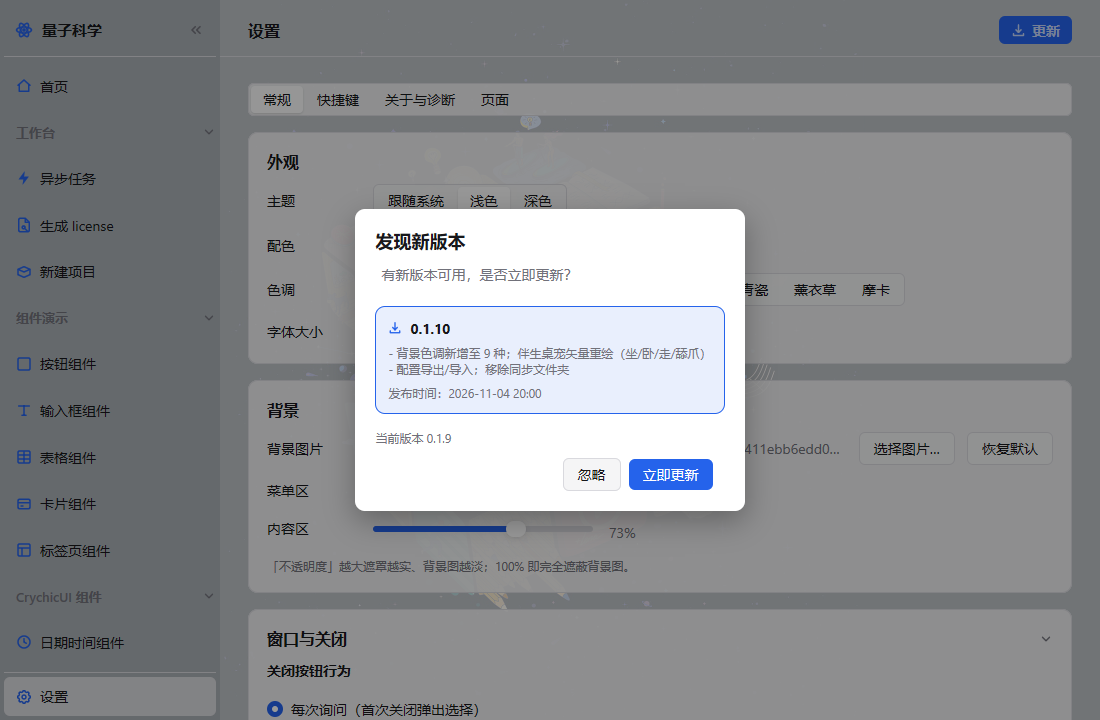
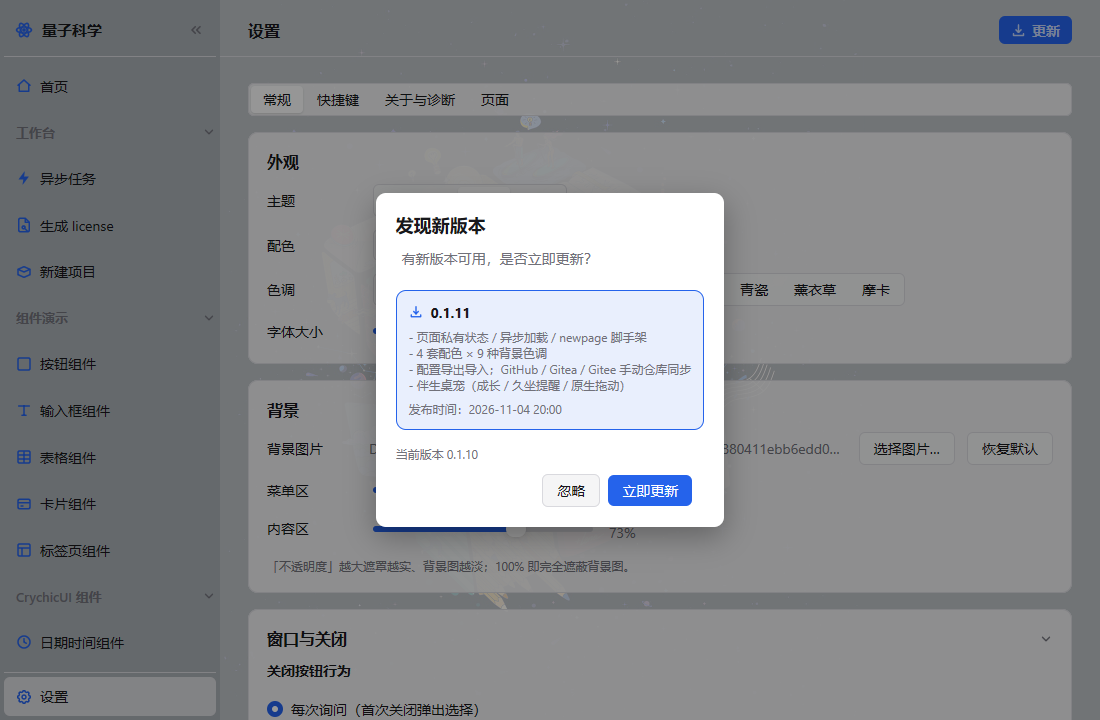
release: v0.1.11（主题、配置同步与仓库托管、伴生桌宠）
版本 0.1.10 → 0.1.11；CHANGELOG 新增 0.1.11 段（页面开发配套、主题、导出导入与仓库同步、桌宠、移除同步文件夹）；README 当前版本同步；模板快照刷新；04/11/12 截图按 0.1.11 重拍。

发版前确认：新建项目生成器端到端测试通过（只保留工作台分组也能编译），新增的 pet/profile/repo 包均随模板保留且无第三方依赖。

Changed region(s): [[0.3091, 0.2444, 0.68, 0.7333]]

diff --git a/CHANGELOG.md b/CHANGELOG.md
@@ -4,6 +4,31 @@
 > `update-<target>.json` 的 `notes`，并显示在客户端「发现新版本」弹窗里。
 > **发版前必须为新版本加一段**——文件存在但找不到对应段落时，构建会直接报错失败。
 
+## 0.1.11
+
+- **页面开发配套**：新增页面私有状态 `a.Prefs()`（`page_pref` 表）、页面异步加载
+  `pageAsync`（加载中/失败重试/迟到结果丢弃/进页刷新/页面销毁取消）、
+  `go run ./scripts/newpage` 脚手架；设置 →「页面」可按页面声明设置项，
+  「关于与诊断」可一键清理页面状态。
+
+- **多套主题**：明暗之外新增两个维度——4 套配色（跟随系统 / 琥珀 / 青碧 / 靛蓝 / 石墨）
+  与 9 种背景色调（默认 / 暖白 / 护眼绿 / 午夜蓝 / 樱粉 / 雾蓝 / 青瓷 / 薰衣草 / 摩卡），
+  可自由组合；默认仍跟随系统强调色与主题背景。
+
+- **配置与数据**：设置页可导出 / 导入配置包（设置 + 任务 / 授权 / 页面状态 + 背景图，
+  导入前自动备份、完成后重启），命令行新增 `--export-profile` / `--import-profile`。
+  另支持**手动**上传 / 下载到自己的私有仓库：GitHub / Gitea / Gitee，个人访问令牌
+  只存本机、不随配置包导出；没有自动上传或后台轮询。
+
+- **伴生桌宠**：无边框、透明、置顶、不占任务栏的小窗，矢量小猫 / 小狗；按陪伴时长
+  4 阶段成长（30 小时封顶），久坐提醒（气泡 + 主窗口隐藏时的系统通知）；拖动走框架
+  原生窗口拖动（稳定不抖），位置记忆，60 秒不动会躺下。为保证拖拽稳定不做点击互动。
+
+- **移除**：上一版试做的「同步文件夹」（云盘目录）功能按反馈整体删除。
+
+- **模板与文档**：源码快照、README、设计文档与界面截图同步更新；
+  「新建项目」生成器端到端测试仍通过（只保留工作台分组也能编译运行）。
+
 ## 0.1.9
 
 - **侧栏品牌区只做一件事：点击回首页**。原来整块品牌头点击 = 收起/展开侧栏，
